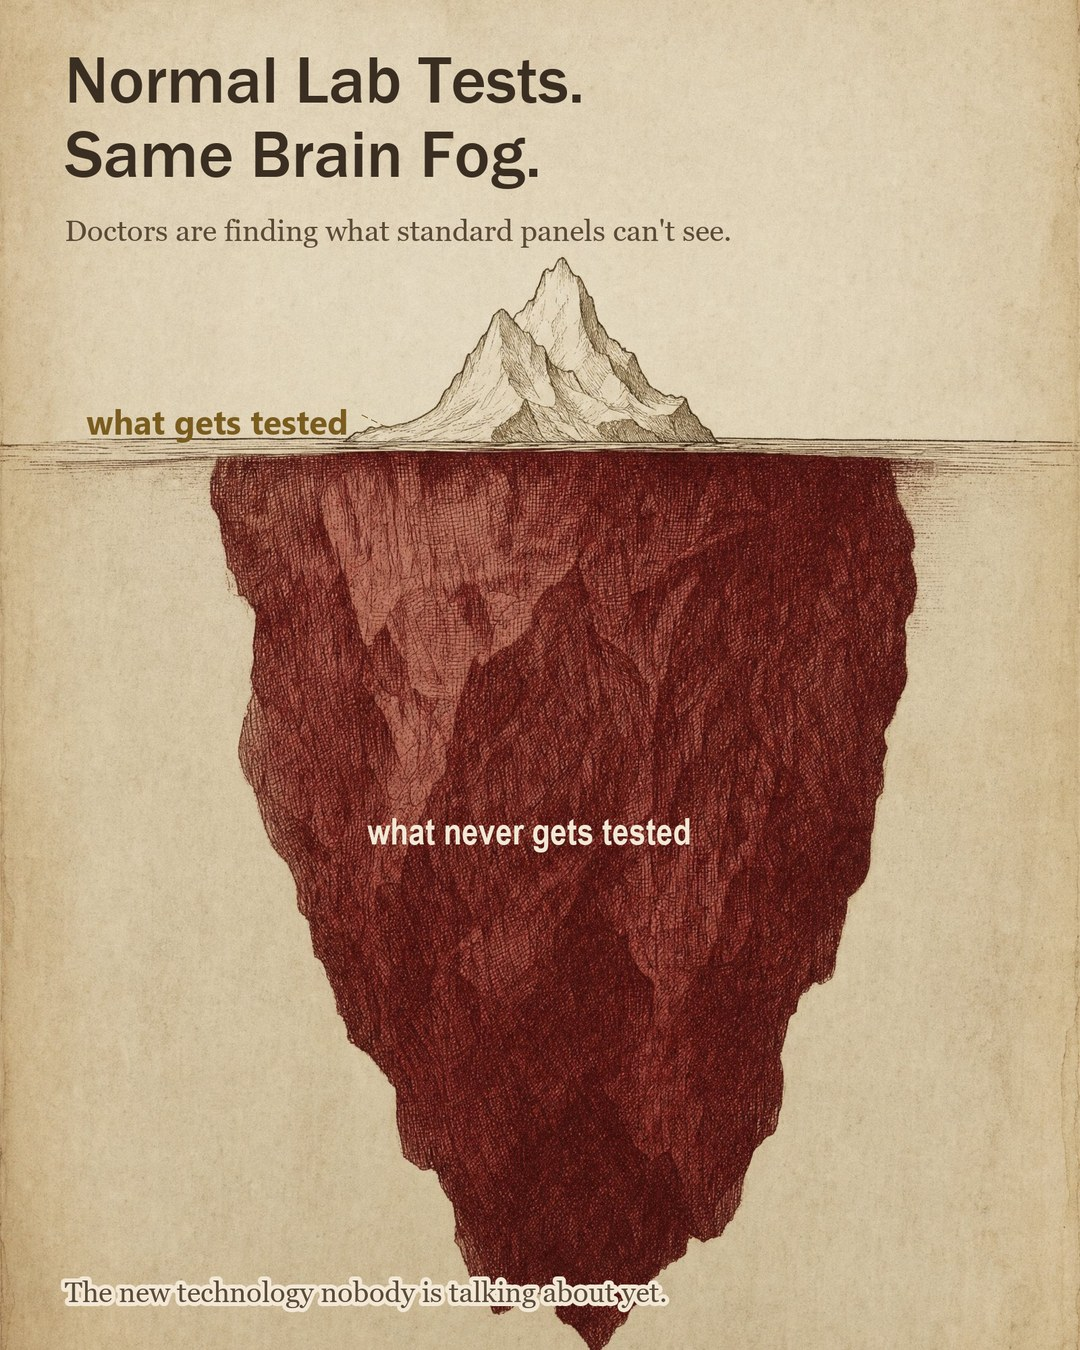
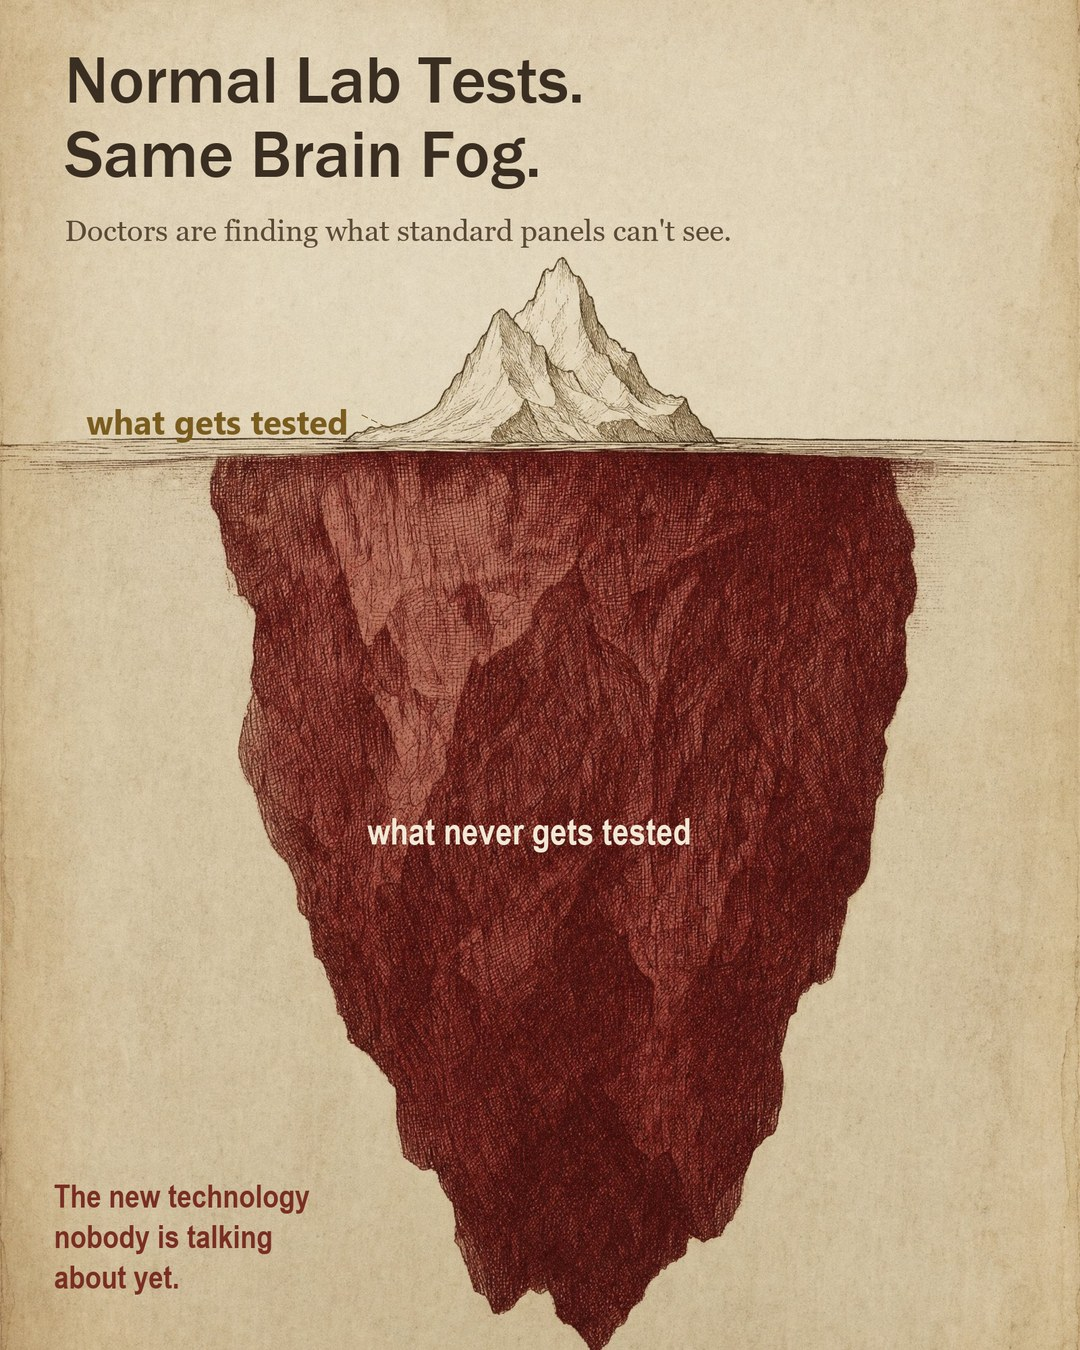
fix(sk-bold): operator layout notes on B, H, K, M
adM plate re-cropped to slide the graph up; two-line doctor-tested
kicker on clear paper; 'gut health, unchecked' hugs its curve;
estrogen label tightened to its line. adB bottom line centered
(compositor gains align:center). adH tease promoted to the deck under
the headline. adK teaser is now a bold oxblood corner block, no halo.

Changed region(s): [[0.0306, 0.8711, 0.6111, 0.9956]]

diff --git a/scripts/ad_text_overlay.py b/scripts/ad_text_overlay.py
@@ -94,8 +94,13 @@ def render(background: Path, spec_path: Path, out_path: Path) -> None:
         spacing = block.get("line_spacing", 1.22)
         halo = block.get("halo")
         stroke = max(3, int(h * block["size"] * 0.16)) if halo else 0
+        centered = block.get("align") == "center"
         for line in block["text"].split("\n"):
-            draw.text((x, y), line, font=font, fill=block["color"],
+            lx = x
+            if centered:
+                bb = draw.textbbox((0, 0), line, font=font)
+                lx = (w - (bb[2] - bb[0])) // 2
+            draw.text((lx, y), line, font=font, fill=block["color"],
                       stroke_width=stroke, stroke_fill=halo)
             y += int(h * block["size"] * spacing)
 

diff --git a/clients/secondkind-bold/static-ads/mechanism-infographic-2026-07/copy-notes.md b/clients/secondkind-bold/static-ads/mechanism-infographic-2026-07/copy-notes.md
@@ -24,10 +24,13 @@ Type floor (operator legibility note, 2026-07-08): deck lines 0.022, diagram lab
 #57432F (the lighter #8A6A2F / #6B5844 read as hard-to-see). Red #B5432F and cream
 #F2E8D5-on-dark are fine. Chart labels sit adjacent to their own line, not floating.
 
-Solution-tease closers (operator-directed, 2026-07-08): B/G/H/K now end on a hedged
-tease of the fix ("A new technology is now changing that." / "Researchers have found
-a way to bypass stomach acid entirely." / "The new technology nobody is talking about
-yet."). Category-level and unbranded; still zero product names on curiosity ads.
+Solution-tease placement (operator-directed, 2026-07-08): the tease should read as
+primary copy, not a fine-print caption. adH carries "Researchers have found a way to
+bypass stomach acid entirely." as the DECK under the headline; adK runs "The new
+technology nobody is talking about yet." as a bold 3-line corner block on clear paper
+(halo strokes over art read as "weird", avoid); adG closes with the 3-line
+probiotics-die-first + new-technology block. Category-level and unbranded; still zero
+product names on curiosity ads.
 
 | Ad | Headline | Visual | Reference it maps to |
 |---|---|---|---|
@@ -62,7 +65,7 @@ nobody checks." News register per the 2026-07-08 rule.
 | J | It's Not Perimenopause. Doctors Are Finding a Different Root Cause. | vintage textbook brain + intestine connected by gold vagus line, label "the signal route" | the operator's model line verbatim; vagus nerve frame |
 | K | Normal Lab Tests. Same Brain Fog. | sepia iceberg, cream tip vs huge oxblood mass; labels "what gets tested" / "what never gets tested"; kicker "The new technology nobody is talking about yet." | "not part of routine midlife screening" + normal-labs dismissal |
 | L | The Perimenopause Symptoms That May Not Be Perimenopause | gold + oxblood venn, overlap holds brain fog / mood swings / exhaustion | symptom checklist; "communication breakdown" second system |
-| M | What Perimenopause Gets Blamed For | two declining curves age 40 to 55: estrogen (expected) vs gut signal (unchecked); kicker "Only one is on the standard panel." | "accelerates during perimenopause"; screening gap |
+| M | What Perimenopause Gets Blamed For | two declining curves age 40 to 55: estrogen (expected) vs gut health (unchecked); plate re-cropped to slide the graph up for kicker room; kicker "Only one of these is actually tested by doctors. / The other goes unchecked." | "accelerates during perimenopause"; screening gap |
 
 Wave-3 primary text first lines:
 
